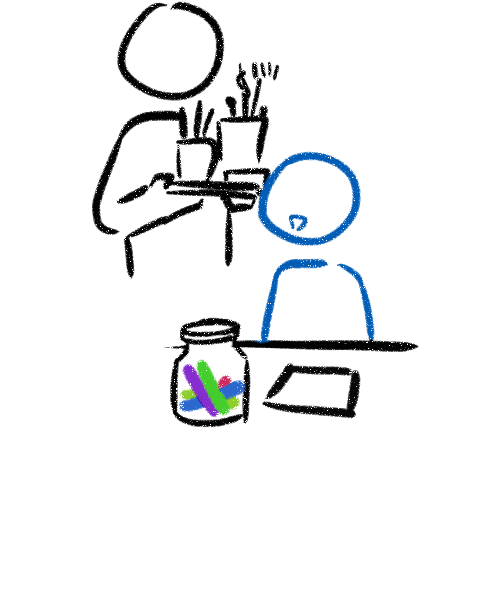
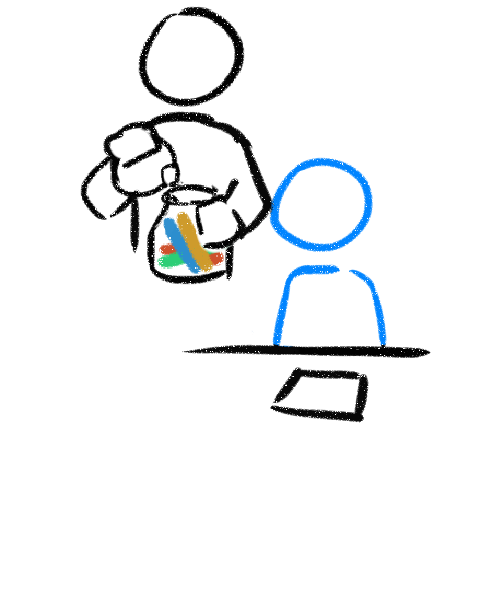
pushing final changes

Changed region(s): [[0.15, 0.0, 0.87, 0.72]]

diff --git a/templates/index.html b/templates/index.html
@@ -25,7 +25,7 @@
     <!-- 2: Ad break warning -->
     <section class="slide" id="slide-2">
         <div class="slide-inner">
-            <p>Before we talk about it, we're now getting to an ad break. Feel free to skip it, but know that if you get to the end of the video, you'll receive 100 dollars deposited right into your bank account! See you soon!</p>
+            <p>Before we talk about it, we're now getting to an ad break. Feel free to skip it, but know that if you get to the end of the advertisement, you'll receive 100 dollars deposited right into your bank account! See you soon!</p>
             <button class="continue-btn" id="okay-btn" data-next="slide-3">Okay &rarr;</button>
         </div>
     </section>
@@ -44,7 +44,7 @@
     <section class="slide" id="slide-4">
         <div class="slide-inner">
             <p>You waited <span id="waited-time">a moment</span> before you pressed the skip button.</p>
-            <p>But it's not because you're unable to wait longer to receive 100 dollars. Instead it was because <a>you didn't believe it would happen if you had waited</a>. This is the exact finding of a paper titled "Rational Snacking", one of many that revisited the Stanford Marshmallow Experiment.</p>
+            <p>But it's not because you're unable to wait for an ad to end to receive 100 dollars. Instead it was because <a>you didn't believe it would happen if you had waited</a>. This is the exact finding of a paper titled "Rational Snacking", one of many that revisited the Stanford Marshmallow Experiment.</p>
             <button class="continue-btn" data-next="slide-5">Tell me more &rarr;</button>
         </div>
     </section>
@@ -97,7 +97,10 @@
     <section class="slide" id="slide-6" data-pair="6" data-btn-next="slide-7" data-btn-text="Aw :) &rarr;">
         <div class="slide-inner">
 
-            <p>In the reliable condition, 9 out of 14 children (64.3%) waited the full 15 minutes. In the unreliable condition, only 1 out of 14 children (7.1%) waited the full 15 minutes.</p>
+            <div class="two-col">
+                <div><p>In the reliable condition, 9 out of 14 children (64.3%) waited the full 15 minutes.</p></div>
+                <div><p>In the unreliable condition, only 1 out of 14 children (7.1%) waited the full 15 minutes.</p></div>
+            </div>
             <p class="small-note">(Unrelated to the findings of the experiment, every child was debriefed and received 3 marshmallows after the experiment, regardless of whether they waited or not.)</p>
         </div>
     </section>
@@ -159,7 +162,7 @@
     <section class="slide" id="slide-12">
         <div class="slide-inner">
             <p>While children don't have much control over their learning opportunities and environment, later on in life there are cognitive skills and ways of framing situations that make delaying gratification - and making better decisions in general - easier.</p>
-            <p>In fact, the point of the original Stanford marshmallow experiment wasn't just that children with early self-control would go on to live better lives. It was actually a series of experiments investigating <a>mental strategies for the purpose of delaying gratification</a>. The researchers found children could wait a long time if they believed they really would get their treat, weren't thinking about the marshmallow, and occupied themselves with happy thoughts or toys.</p>
+            <p>In fact, the point of the original Stanford marshmallow experiment is highly misunderstood. It wasn't just to see if children with early self-control would go on to live better lives; it was a part of a series of experiments that came before it investigating <a>mental strategies for the purpose of delaying gratification</a>. The researchers found children could wait a long time if they believed they really would get their treat, weren't thinking about the marshmallow, and occupied themselves with happy thoughts or toys.</p>
             <button class="continue-btn" data-next="slide-13">Interesting &rarr;</button>
         </div>
     </section>
@@ -175,32 +178,83 @@
     </section>
 
     <!-- 14: Tip - small risks -->
-    <section class="slide" id="slide-14" data-tip="14" data-btn-next="slide-15" data-btn-text="&rarr;">
-        <div class="slide-inner">
+    <section class="slide" id="slide-14">
+        <div class="slide-inner final-layout">
+
+            <div class="final-image">
+                <img src="/static/img/final_three/color1.png" alt="">
+            </div>
+
             <div class="tip">
                 <h3>Start with small risks:</h3>
-                <p>When you go to sleep early and wake up feeling better, make a mental note that this is the result of you choosing to sleep early. Build your own evidence that the wait is worth it.</p>
+                <p>The trouble with delayed gratification is that the reward you get at the end may not be worth the trouble you go through. It may be really risky to work on something for years with it potentially not paying off. And while sometimes our decision to not delay gratification is rational, other times it’s from not having enough experience with delaying gratification to feel comfortable with it.</p>
+                <p>So take small risks, and build up that trust. Try just going to sleep early or taking a walk outside, and if you end up feeling better from it, make a mental note that this is the result of you choosing to do something for your future self.</p>
+
+                <button class="continue-btn" data-next="slide-15">&rarr;</button>
             </div>
+
         </div>
     </section>
 
     <!-- 15: Tip - new environment -->
-    <section class="slide" id="slide-15" data-tip="15" data-btn-next="slide-16" data-btn-text="&rarr;">
-        <div class="slide-inner">
+    <section class="slide" id="slide-15">
+        <div class="slide-inner final-layout">
+
+            <div class="final-image">
+                <img src="/static/img/final_three/color2.png" alt="">
+            </div>
+
             <div class="tip">
                 <h3>Try a new environment:</h3>
                 <p>Changing your surroundings removes familiar cues that pull you toward immediate rewards. A library, a cafe, a different room - small shifts can make a big difference.</p>
+
+                <button class="continue-btn" data-next="slide-15">&rarr;</button>
             </div>
+
         </div>
     </section>
 
     <!-- 16: Tip - enjoy the process -->
-    <section class="slide" id="slide-16" data-tip="16" data-btn-restart>
-        <div class="slide-inner">
+    <section class="slide" id="slide-16">
+        <div class="slide-inner final-layout">
+
+            <div class="final-image">
+                <img src="/static/img/final_three/color3.png" alt="">
+            </div>
+
             <div class="tip">
                 <h3>Find ways to enjoy the process:</h3>
-                <p>The more genuinely enjoyable the work itself feels, the less you have to rely on willpower alone. The marshmallow gets a lot easier to resist when you're already having fun.</p>
+                <p>And finally, it's both reasonable and supported by studies to think that it's much harder to delay gratification if the process of delaying gratification is unenjoyable. It's much easier to not choose immediate rewards if we are doing something enjoyable or engaging.</p>
+                <p>So try finding ways to make the process enjoyable or new. For example, if going to the gym is not very fun, try going with friends, or doing some other kind of exercise that's more engaging. This has the added benefit of making delaying gratification less risky, since you are already doing something that you like.</p>
+                <button class="continue-btn" data-next="slide-17">Continue &rarr;</button>
             </div>
+
+        </div>
+    </section>
+
+    <!-- 17: Conclusion -->
+    <section class="slide" id="slide-17">
+        <div class="slide-inner">
+            <p>And that's just a few of them. There are a lot more strategies out there, you just have to find the ones that work for you.</p>
+            <p>So in conclusion, self-control and willpower are very important abilities to have on hand, but also need to be used rationally. Additionally, self-control is dependant on a stable and predictable environment, and in children, the modeling and resources to learn its value. Maintaining an environment that rewards delaying gratification maintains the ability to exert self-control. </p>
+            <p>So next time you are sitting at a table looking at a marshmallow, instead of just pushing through the temptation with pure willpower, it's a lot easier to just get up and take a walk.</p>
+
+            <button class="continue-btn" data-next="slide-18">:) &rarr;</button>
+        </div>
+    </section>
+
+    <!-- 18: References -->
+    <section class="slide" id="slide-18">
+        <div class="slide-inner">
+            <h3>References:</h3>
+            <p>Kidd, C., Palmeri, H., & Aslin, R. N. (2013). Rational snacking: Young children's decision-making on the marshmallow task is moderated by beliefs about environmental reliability. Cognition, 126(1), 109-114. https://doi.org/10.1016/j.cognition.2012.08.004</p>
+            <p>Koss, K. J., Kronaizl, S., Brown, R., & Brooks-Gunn, J. (2025). Childhood Environmental Unpredictability and Adolescent Mental Health and Behavioral Problems. Child Development, 96(4), 1424–1442. https://doi.org/10.1111/cdev.14248</p>
+            <p>Marleen, G. & Denise, R. (2019). Distinguishing between self-control and perceived control over the environment to understand disadvantaged neighborhood health and lifestyle outcomes. Psychology health, 34(11), 1282-1293</p>
+            <p>Mischel, W., Ebbesen, E. B., & Raskoff Zeiss, A. (1972). Cognitive and attentional mechanisms in delay of gratification. Journal of personality and social psychology, 21 (2), 204.</p>
+            <p>Shoda, Y., Mischel, W., & Peake, P. K. (1990). Predicting adolescent cognitive and self-regulatory competencies from preschool delay of gratification: Identifying diagnostic conditions. Developmental psychology, 26 (6), 978.</p>
+            <p>Watts, T. W., Duncan, G. J., & Quan, H. (2018). Revisiting the Marshmallow Test: A Conceptual Replication Investigating Links Between Early Delay of Gratification and Later Outcomes. Psychological Science, 29(7), 1159–1177. https://doi.org/10.1177/0956797618761661</p>
+          
+            <button class="continue-btn" data-next="slide-1">Take me back to the beginning &rarr;</button>
         </div>
     </section>
 

diff --git a/static/css/sections.css b/static/css/sections.css
@@ -36,7 +36,7 @@ html, body {
 
 #story-images {
     position: fixed;
-    top: 260px;
+    top: 300px;
     left: 50%;
     transform: translateX(-50%);
     width: min(640px, 100vw);
@@ -304,4 +304,42 @@ html, body {
 .slide[data-tip] p,
 .slide[data-tip] h3 {
     text-align: right;
+}
+
+/* --- final slides layout (14–16) --- */
+
+.final-layout {
+    max-width: 1100px !important;
+    display: grid;
+    grid-template-columns: 1.1fr 0.9fr;
+    gap: 80px;
+    align-items: center;
+}
+
+/* image (left side) */
+.final-image {
+    display: flex;
+    justify-content: flex-start;
+}
+
+.final-image img {
+    width: 100%;
+    max-width: 520px;
+    height: auto;
+}
+
+/* text (right side) */
+.final-layout .tip {
+    text-align: center;
+}
+
+.final-layout h3,
+.final-layout p {
+    text-align: center;
+}
+
+/* button under text on right */
+.final-layout .continue-btn {
+    margin-top: 1.5em;
+    margin-left: auto;
 }

diff --git a/static/js/main.js b/static/js/main.js
@@ -31,7 +31,7 @@ function updateStoryImages(slideEl) {
         storyImages.classList.add('visible');
     } else if (tip) {
         placeStoryImages(tipHost);
-        storyImgA.src = `/static/img/final_three/${tip}.svg`;
+        storyImgA.src = `/static/img/final_three/color1.png`;
         storyImgB.style.display = 'none';
         if ('btnRestart' in slideEl.dataset) {
             storyBtn.innerHTML = '&#8634;';
@@ -64,7 +64,7 @@ function goTo(index, direction) {
     const from = slides[current];
     const to = slides[index];
     updateStoryImages(to);
-    if (to.id === 'slide-3') { adVideo.currentTime = 0; adVideo.play().catch(() => {}); startSkipCountdown(); }
+    if (to.id === 'slide-3') { startAdTimer(); adVideo.currentTime = 0; adVideo.play().catch(() => {}); startSkipCountdown(); }
     if (from.id === 'slide-3') { clearInterval(skipCountdown); }
 
     const enterFrom = direction === 'forward' ? 'enter-from-right' : 'enter-from-left';
@@ -172,9 +172,10 @@ updateBackBtn();
 document.getElementById('skip-btn').addEventListener('click', () => {
     adVideo.pause();
 
-    const elapsed = (Date.now() - adStart) / 1000;
+    const elapsed = adStart ? (Date.now() - adStart) / 1000 : 0;
+
     const display = elapsed < 60
-        ? elapsed.toFixed(1) + ' seconds'
+        ? Math.round(elapsed) + ' seconds'
         : (elapsed / 60).toFixed(1) + ' minutes';
 
     document.getElementById('waited-time').textContent = display;